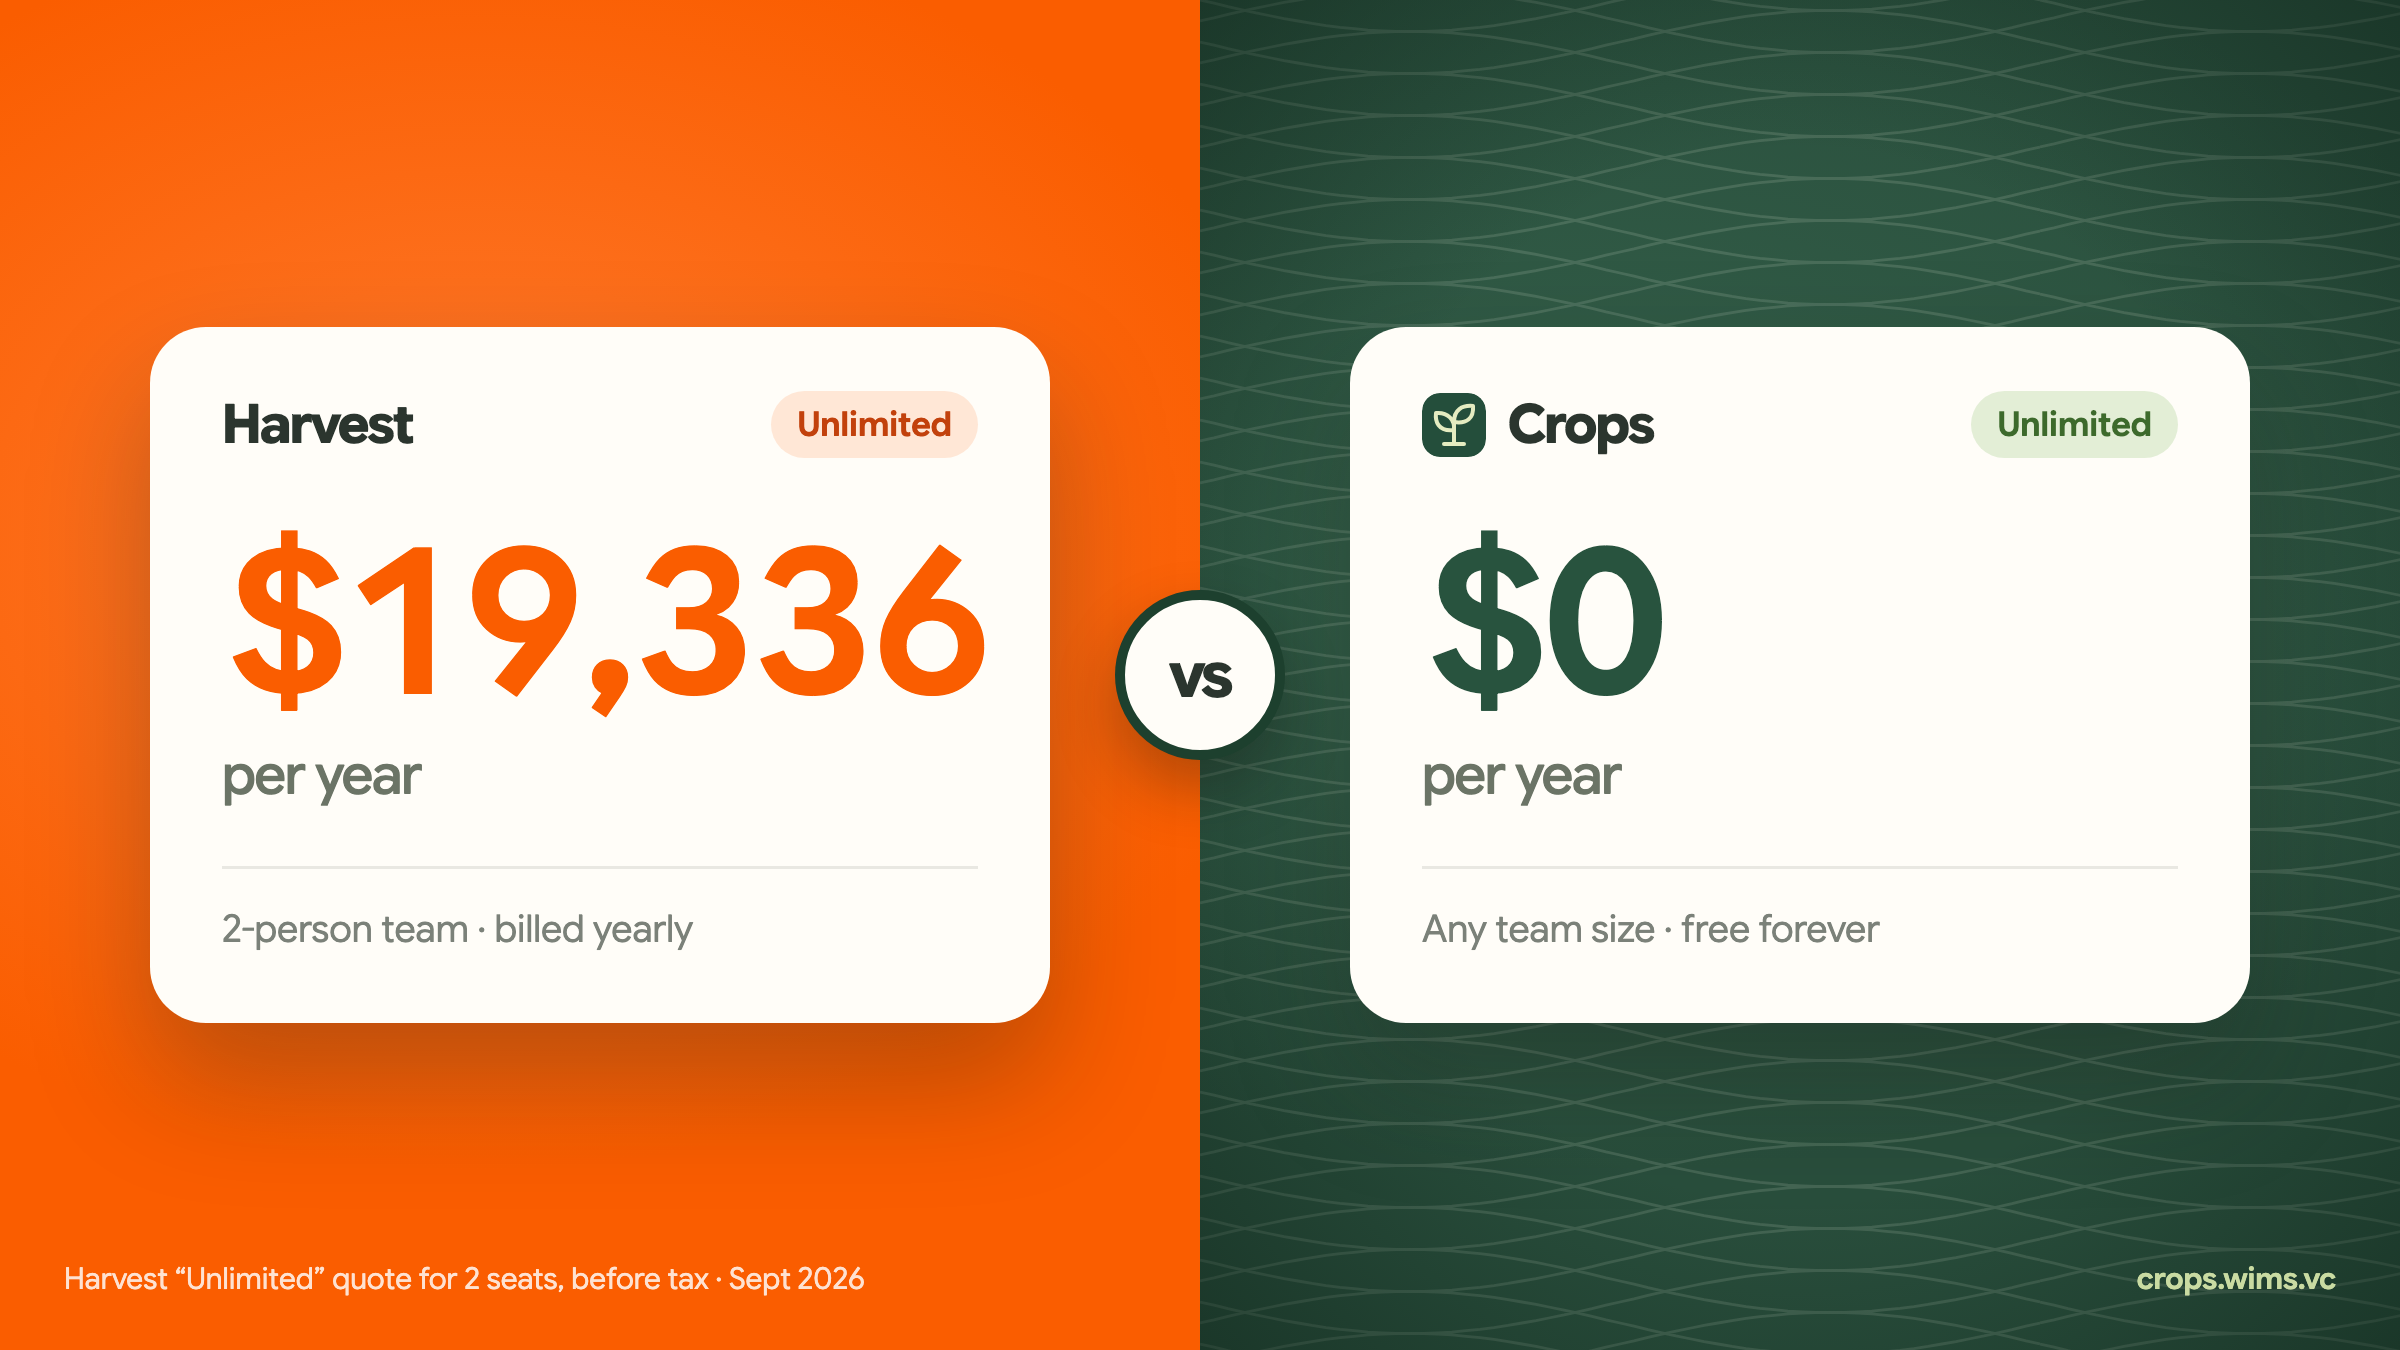
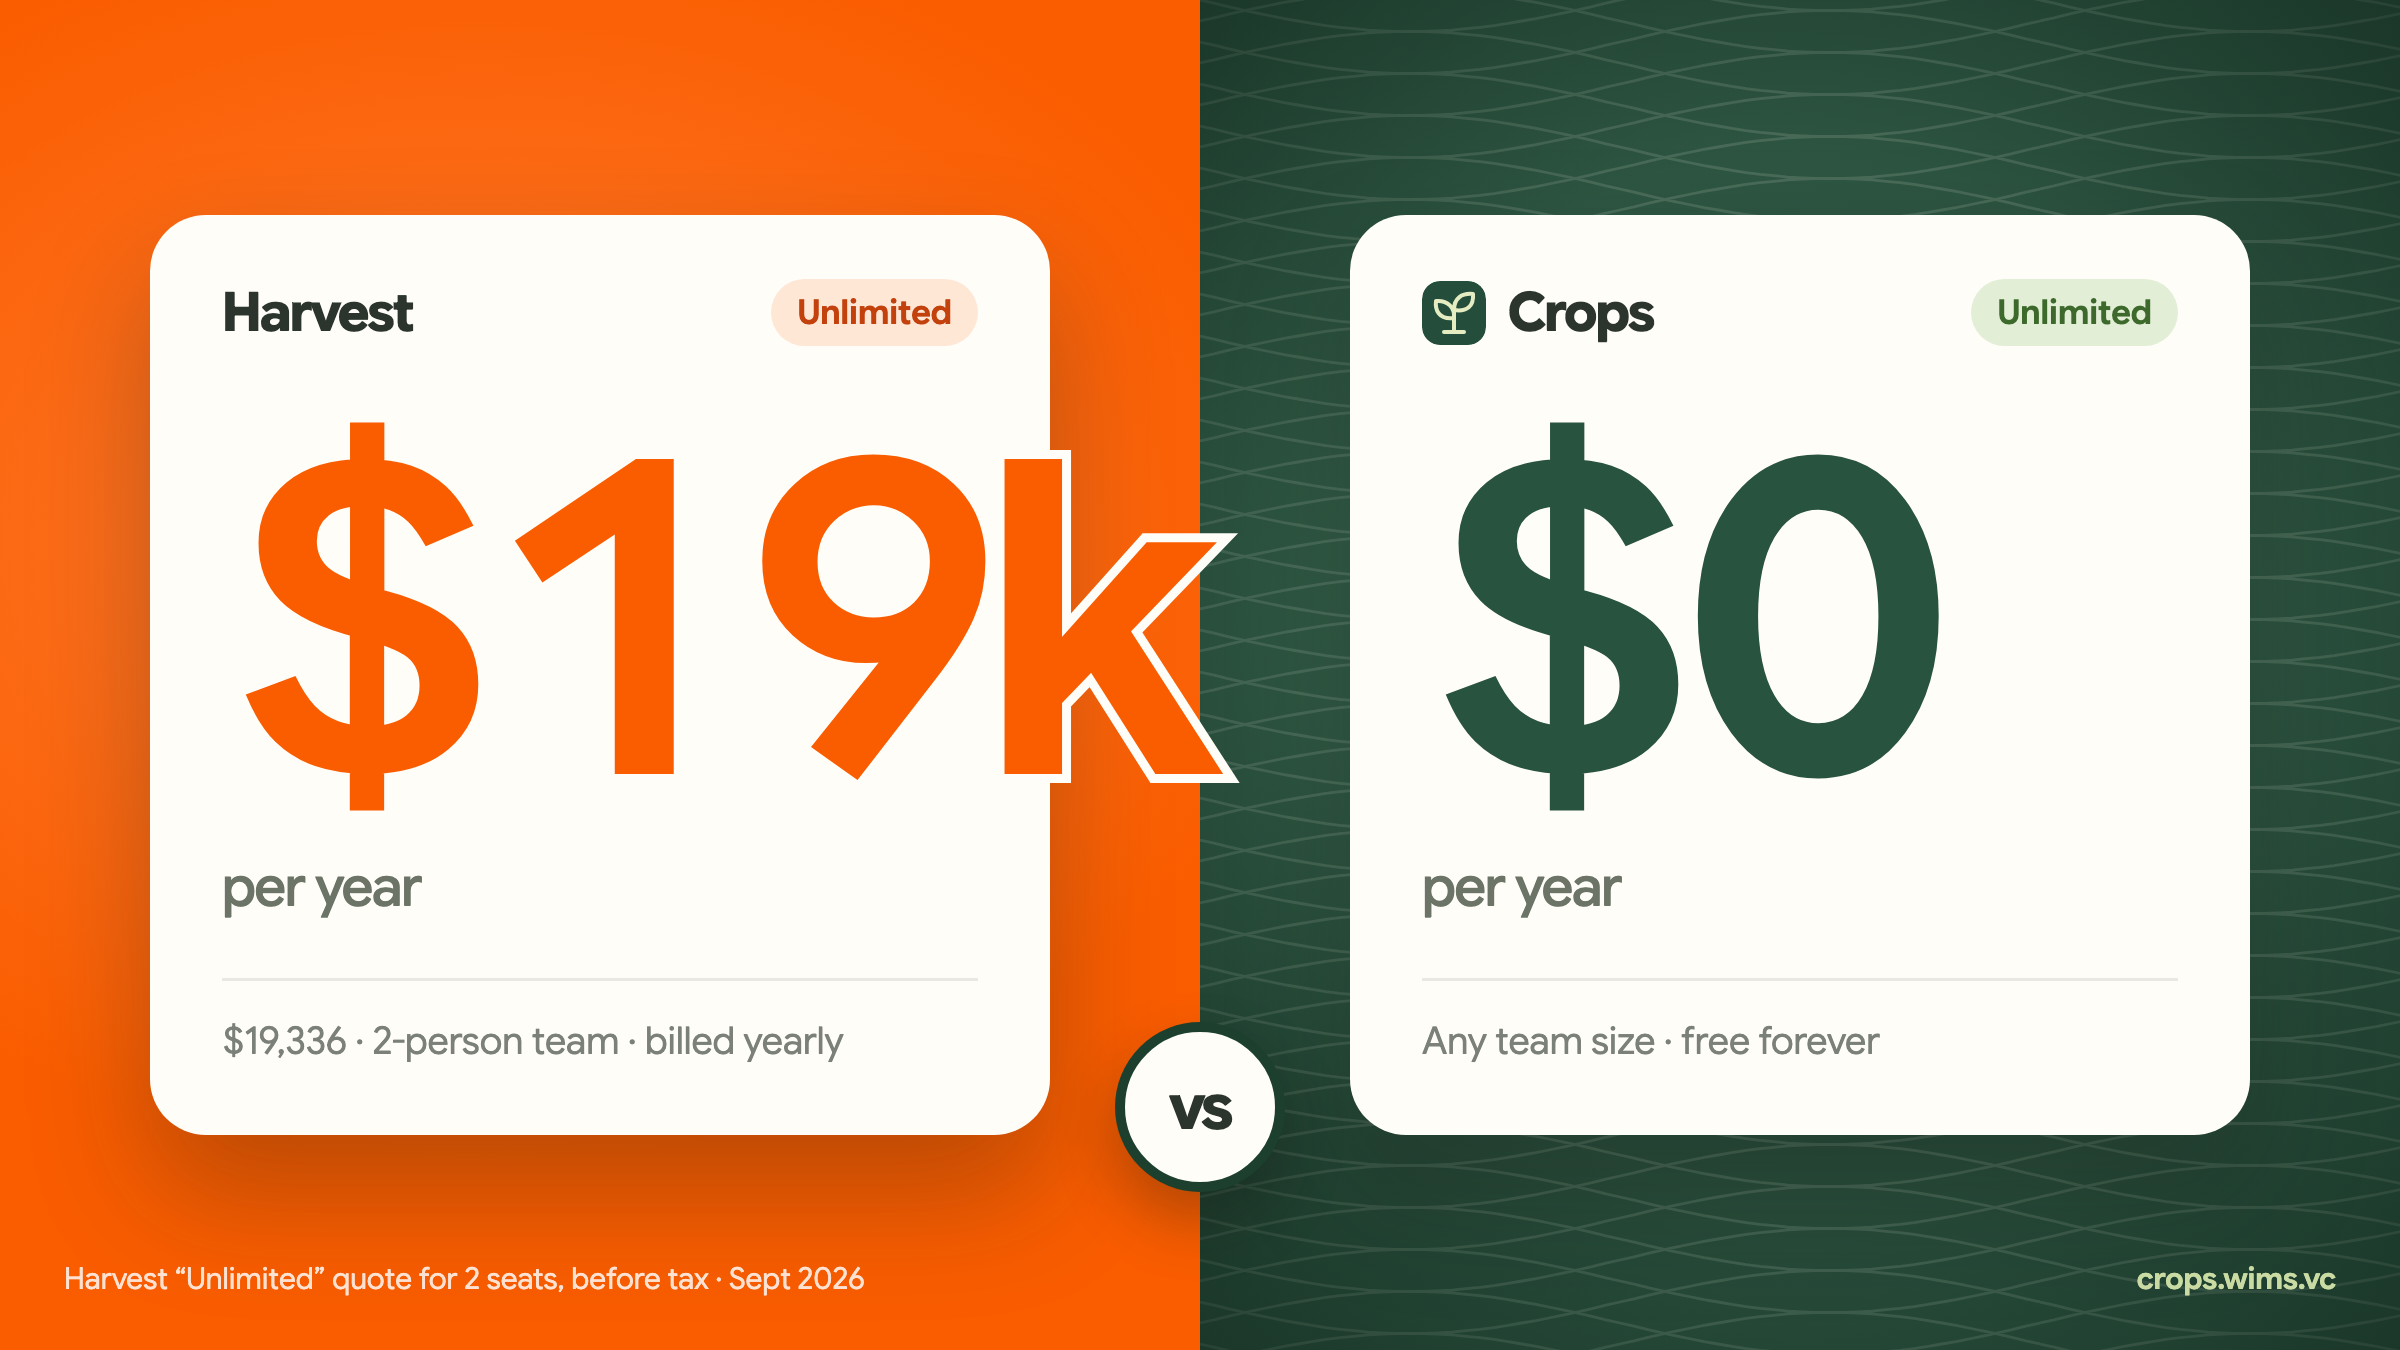
Move the overflowing $19k to the price comparison image

diff --git a/video/src/stills.tsx b/video/src/stills.tsx
@@ -62,12 +62,14 @@ function PriceCard({
   note,
   tone,
   logo = false,
+  priceSize = 204,
 }: {
   name: string;
   price: string;
   note: string;
   tone: "harvest" | "crops";
   logo?: boolean;
+  priceSize?: number;
 }) {
   const accent = tone === "harvest" ? COLORS.harvest : COLORS.forest;
   return (
@@ -91,8 +93,14 @@ function PriceCard({
       <div
         style={{
           marginTop: 70,
-          fontSize: 204,
+          fontSize: priceSize,
           lineHeight: 0.95,
+          whiteSpace: "nowrap",
+          position: "relative",
+          zIndex: 2,
+          // A card-colored outline keeps the overflowing price legible on any background.
+          WebkitTextStroke: "18px #fffdf8",
+          paintOrder: "stroke fill",
           fontWeight: 600,
           letterSpacing: "-0.06em",
           color: accent,
@@ -121,14 +129,14 @@ export function SharePrice() {
           position: "relative",
         }}
       >
-        <PriceCard name="Harvest" price={usd(HARVEST_UNLIMITED)} note="2-person team · billed yearly" tone="harvest" />
+        <PriceCard name="Harvest" price="$19k" priceSize={440} note={`${usd(HARVEST_UNLIMITED)} · 2-person team · billed yearly`} tone="harvest" />
         <Footnote style={{ left: 64, color: "rgba(255,255,255,0.82)" }}>
           Harvest “Unlimited” quote for 2 seats, before tax · Sept 2026
         </Footnote>
       </div>
       <Green style={{ flex: 1, display: "grid", placeItems: "center" }}>
         <div style={{ position: "relative" }}>
-          <PriceCard name="Crops" price="$0" note="Any team size · free forever" tone="crops" logo />
+          <PriceCard name="Crops" price="$0" priceSize={440} note="Any team size · free forever" tone="crops" logo />
         </div>
         <Footnote style={{ right: 64, color: "#c9dba2", fontWeight: 600 }}>crops.wims.vc</Footnote>
       </Green>
@@ -136,7 +144,7 @@ export function SharePrice() {
         style={{
           position: "absolute",
           left: "50%",
-          top: "50%",
+          top: "82%",
           transform: "translate(-50%, -50%)",
           width: 170,
           height: 170,
@@ -150,6 +158,7 @@ export function SharePrice() {
           letterSpacing: "-0.04em",
           color: COLORS.ink,
           boxShadow: "0 30px 60px rgba(20,24,18,0.3)",
+          zIndex: 5,
         }}
       >
         vs
@@ -344,37 +353,21 @@ export function ShareArmAndLegs() {
   const orange = { color: COLORS.harvest };
   return (
     <Green style={{ width: SHARE.width, height: SHARE.height, fontFamily: FONT }}>
-      <div
-        style={{
-          position: "absolute",
-          right: -30,
-          bottom: -420,
-          fontSize: 1040,
-          fontWeight: 700,
-          letterSpacing: "-0.07em",
-          lineHeight: 1,
-          color: COLORS.harvest,
-          opacity: 0.95,
-          whiteSpace: "nowrap",
-        }}
-      >
-        $19k
-      </div>
-      <AbsoluteFill style={{ padding: "130px 130px", justifyContent: "flex-start" }}>
+      <AbsoluteFill style={{ padding: "90px 130px 250px", justifyContent: "center" }}>
         <div
           style={{
-            fontSize: 168,
+            fontSize: 200,
             fontWeight: 560,
             letterSpacing: "-0.03em",
             wordSpacing: "0.04em",
             lineHeight: 1.04,
             color: "#f3f5e8",
-            maxWidth: 1900,
+            maxWidth: 2140,
             textShadow: "0 8px 40px rgba(12,32,22,0.35)",
           }}
         >
           Private equity thinks time tracking should cost{" "}
-          <span style={orange}>an arm and both legs.</span>
+          <span style={{ ...orange, whiteSpace: "nowrap" }}>an arm and both legs.</span>
         </div>
       </AbsoluteFill>
       <div
